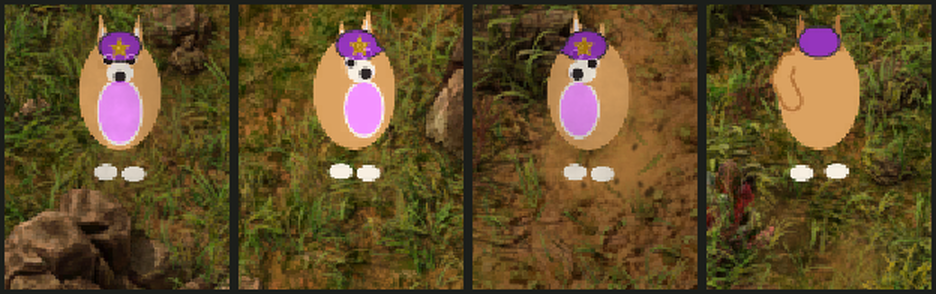
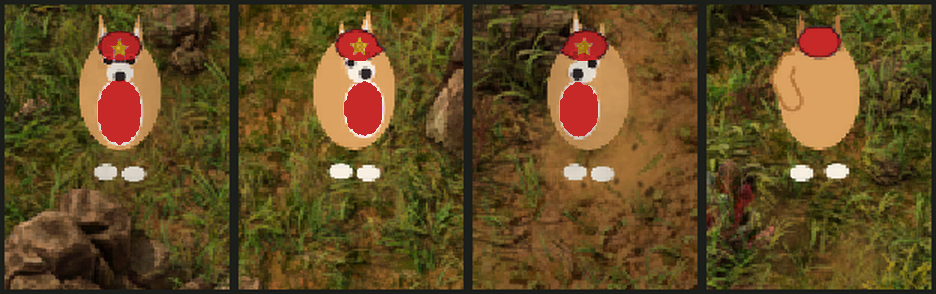
README: red player color in screenshots + green-pistol showcase
- Recolor the hero screenshot cap+chest purple->red (tools/recolor_hero.sh; hue-selective, grass and gold star untouched).

- Add media/commie-doge-armed.png: green toy water pistol aimed in five directions (tools/gen_media_armed.py).

- README: note the red player color, show the armed shot, lead install with the zip method.

- Document the media pipeline in CLAUDE.md.

diff --git a/tools/gen_media_armed.py b/tools/gen_media_armed.py
@@ -1,0 +1,62 @@
+#!/usr/bin/env python3
+"""Build media/commie-doge-armed.png: the green-pistol showcase.
+
+Renders the armed Shiba (red player color via gen_commie_doge.SAMPLE_TINT) facing
+E/SE/S/SW/W and composites the frames onto a seamless grass strip tiled from a
+swatch cropped out of the hero screenshot, with soft drop shadows. Needs Python 3
+and ImageMagick (magick). Run from anywhere: `python3 tools/gen_media_armed.py`.
+"""
+import os, sys, math, subprocess, tempfile
+
+HERE = os.path.dirname(os.path.abspath(__file__))
+REPO = os.path.dirname(HERE)
+sys.path.insert(0, HERE)
+import gen_commie_doge as g  # noqa: E402
+
+OUT = os.path.join(REPO, "media", "commie-doge-armed.png")
+HERO = os.path.join(REPO, "media", "commie-doge.png")
+DIRS = [2, 3, 4, 5, 6]          # E, SE, S, SW, W
+W, H, SCALE = 600, 150, 160     # strip size; doge scale in %
+
+
+def run(args):
+    subprocess.run(args, check=True)
+
+
+def main():
+    tmp = tempfile.mkdtemp(prefix="armed_")
+    grass = os.path.join(tmp, "grass.png")
+    run(["magick", HERO, "-crop", "60x60+2+2", "+repage", grass])
+
+    frames = []
+    for d in DIRS:
+        theta = (d / 8) * 2 * math.pi
+        p = os.path.join(tmp, f"armed_{d}.png")
+        g.render_preview(theta, 0.0, g.IDLE_MOTION, True, p)
+        frames.append(p)
+
+    scene = os.path.join(tmp, "scene.png")
+    run(["magick", "-size", f"{W}x{H}", f"tile:{grass}", scene])
+
+    sh = os.path.join(tmp, "sh.png")
+    shargs = ["magick", "-size", f"{W}x{H}", "xc:none", "-fill", "rgba(0,0,0,0.30)"]
+    for i in range(len(frames)):
+        cx = 60 + i * 120
+        shargs += ["-draw", f"ellipse {cx},133 24,6 0,360"]
+    shargs += ["-blur", "0x2", sh]
+    run(shargs)
+    run(["magick", scene, sh, "-compose", "over", "-composite", scene])
+
+    for i, p in enumerate(frames):
+        cx = 60 + i * 120
+        scaled = os.path.join(tmp, f"sc_{i}.png")
+        run(["magick", p, "-filter", "point", "-resize", f"{SCALE}%", scaled])
+        run(["magick", scene, scaled, "-gravity", "northwest",
+             "-geometry", f"+{cx - 58}+3", "-compose", "over", "-composite", scene])
+
+    run(["magick", scene, OUT])
+    print("wrote", OUT)
+
+
+if __name__ == "__main__":
+    main()

diff --git a/README.md b/README.md
@@ -4,7 +4,11 @@ A [Factorio](https://factorio.com) mod that reskins the engineer as a comrade Sh
 
 ![Commie Doge — front, three-quarter, and back views in-game](media/commie-doge.png)
 
-Full 8-direction animated waddle, a curled tail, a player-colored cap with a gold star and hammer & sickle, and a green toy water pistol when armed. The cap fill and chest take your in-game player color; the gold insignia always stays gold.
+Full 8-direction animated waddle, a curled tail, a player-colored cap with a gold star and hammer & sickle, and a green toy water pistol when armed. The cap fill and chest take your in-game player color (shown here in red); the gold insignia always stays gold.
+
+![Commie Doge armed — the comrade Shiba aims a green toy water pistol in each direction](media/commie-doge-armed.png)
+
+Armed, the comrade Shiba pulls out a green toy water pistol and aims it whichever way you face.
 
 ## Features
 
@@ -15,11 +19,13 @@ Full 8-direction animated waddle, a curled tail, a player-colored cap with a gol
 
 ## Install
 
-**Manual:** copy the `commie-doge/` folder into your Factorio `mods/` directory, enable it, and restart Factorio.
+**Zip (recommended):** download `commie-doge_0.1.0.zip`, drop it — still zipped — into your Factorio `mods/` directory, then launch Factorio and enable **Commie Doge** in the mod list. Factorio loads mods straight from the zip, so don't extract it; restart after enabling.
 
 - macOS: `~/Library/Application Support/factorio/mods/`
 - Windows: `%APPDATA%\Factorio\mods\`
 - Linux: `~/.factorio/mods/`
+
+**From source:** alternatively, copy the unzipped `commie-doge/` folder into `mods/` instead — Factorio reads mod folders as well as zips.
 
 It's a data-only reskin of the character, so **enable only one character skin at a time** — the mod declares an incompatibility with other known character reskins so the launcher warns you.
 

diff --git a/CLAUDE.md b/CLAUDE.md
@@ -48,6 +48,20 @@ green toy water pistol when armed.
   if the dog floats above / sinks into the ground.
 - Motion amplitudes: `RUN_MOTION` / `IDLE_MOTION` / `MINE_MOTION` dicts (sway/bob/foot/lean).
 
+## README media (`media/*.png`)
+- `commie-doge.png` (hero) is a **real in-game screenshot** (grass, the game's own shadow), so
+  the tool can't regenerate it. It was shot with a *purple* player color; the README wants red,
+  so the purple cap+chest are recolored in place by a hue-selective ImageMagick pass (see
+  `tools/recolor_hero.sh`): split HSL, mask = (hue band 165–215/255) AND (sat ≥ 25%), morphology
+  Open+Dilate, then inside the mask set hue→0, sat→168, **clamp lightness ≤47%** (so the light
+  lavender belly reads as solid red, not pink), recombine, and composite the masked region back
+  onto the untouched original (keeps grass/tan/gold byte-identical — no HSL round-trip noise).
+- `commie-doge-armed.png` is the green-pistol shot: armed frames from
+  `gen_commie_doge.render_preview(theta, 0, IDLE_MOTION, True, …)` (its `SAMPLE_TINT` is already
+  red) for dirs E/SE/S/SW/W, composited onto a seamless grass strip tiled from a swatch cropped
+  out of the hero (`magick media/commie-doge.png -crop 60x60+2+2`), with hand-drawn soft shadows.
+  Built by `tools/gen_media_armed.py`.
+
 ## History
 Spun out of the `dog-character` branch of the `penguin-mod` repo (which also has a penguin
 reskin). The two share the generator engine and both overwrite the character, hence the
